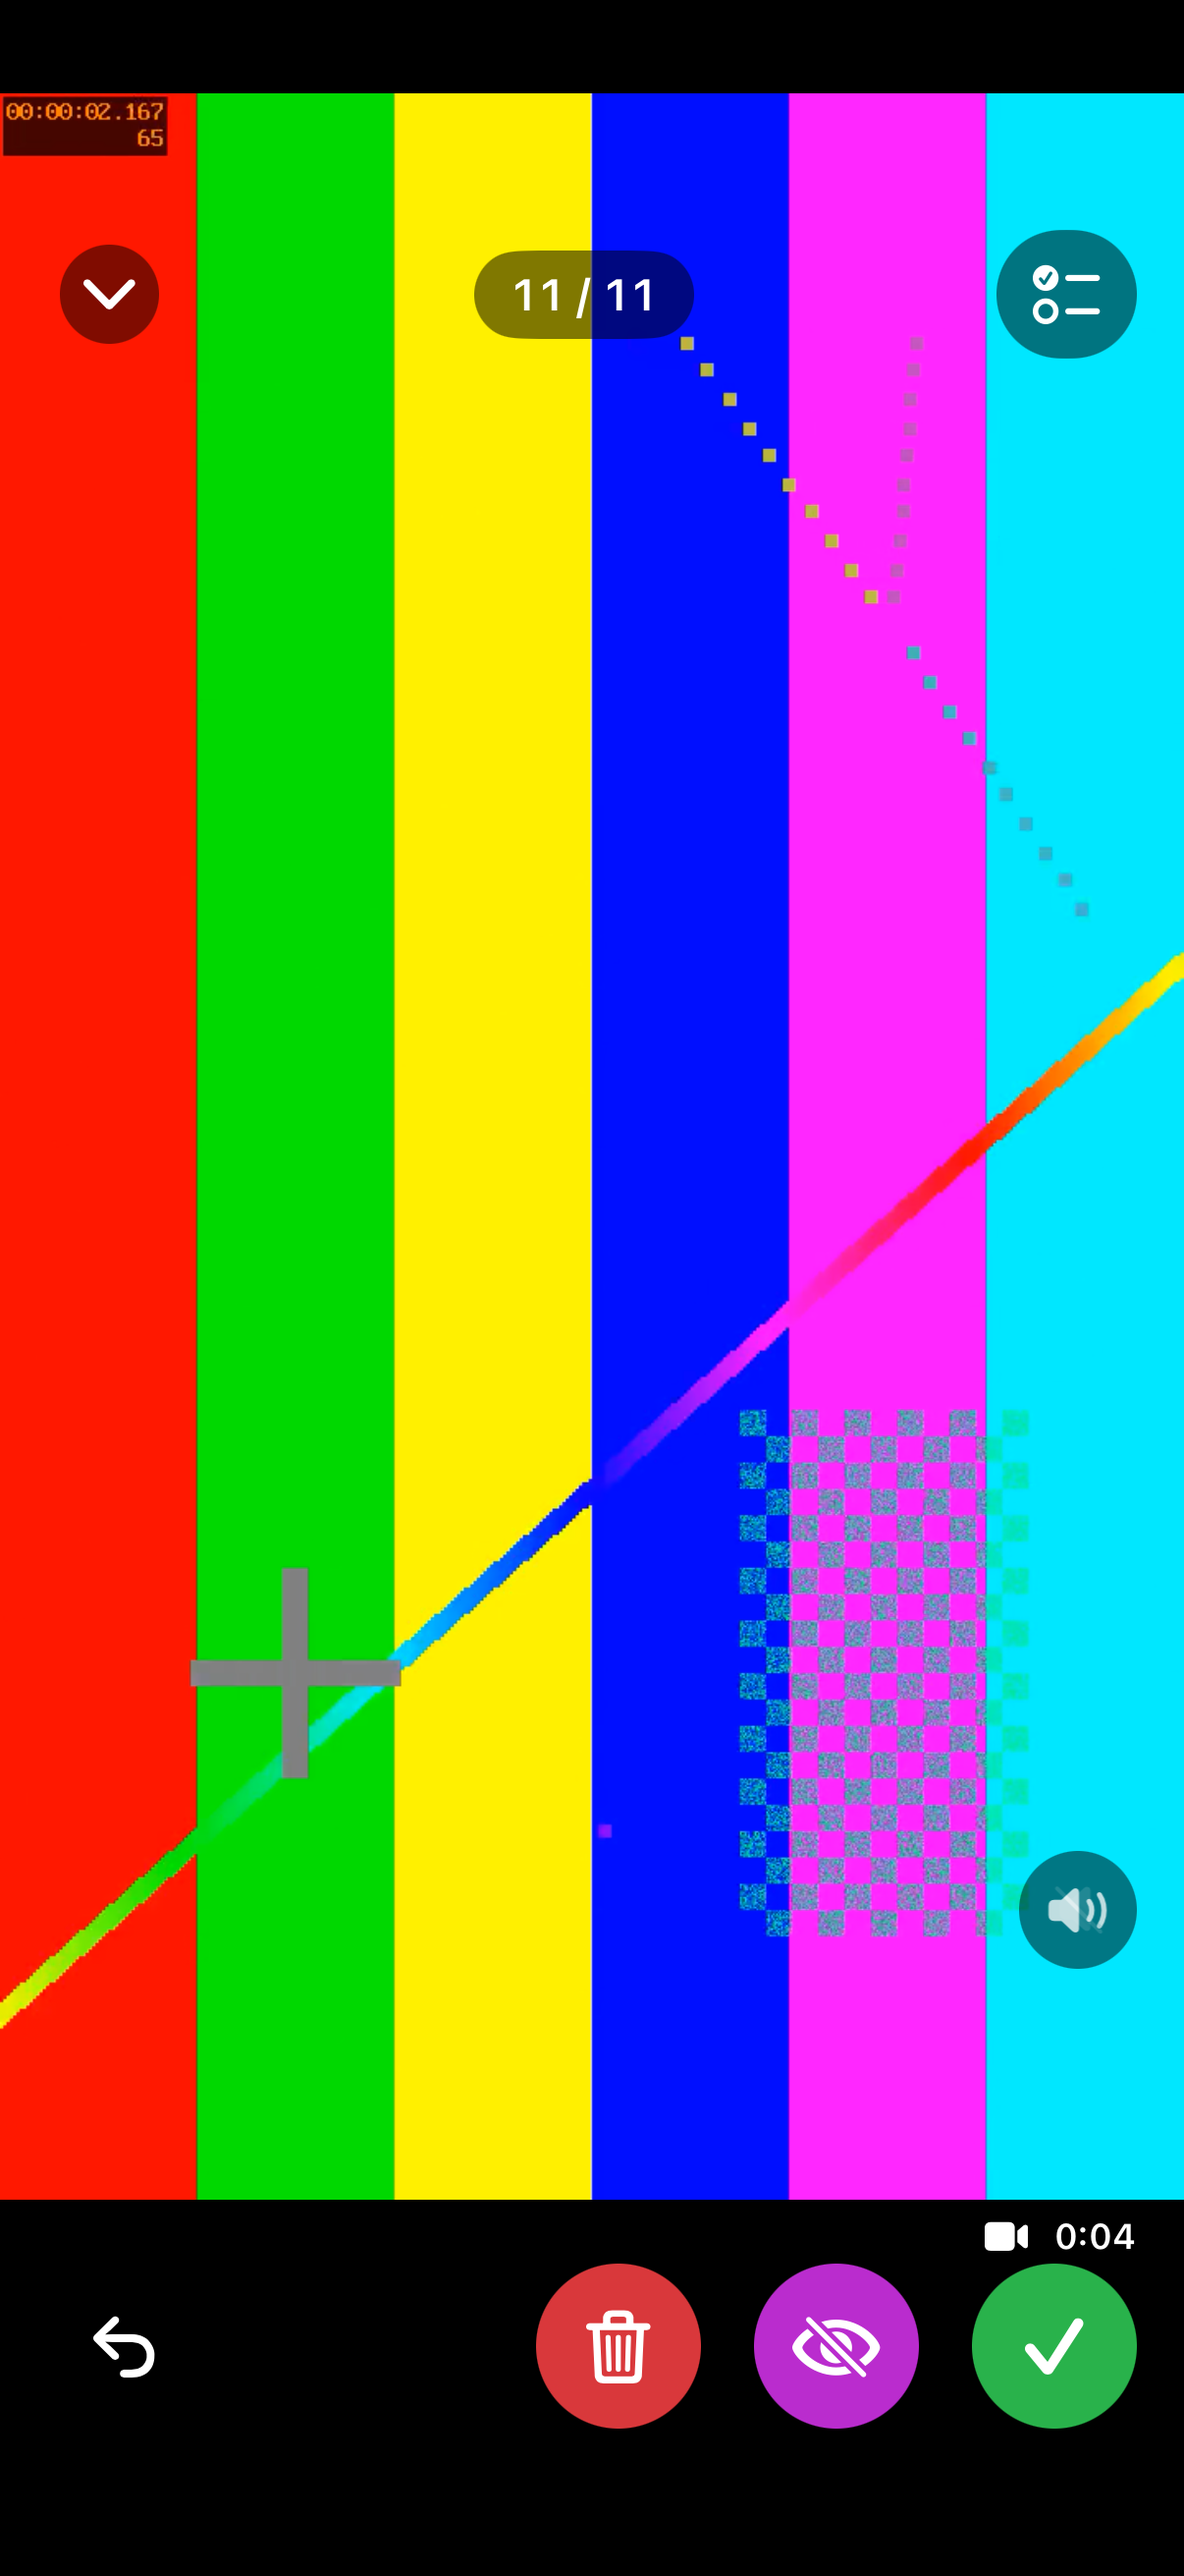
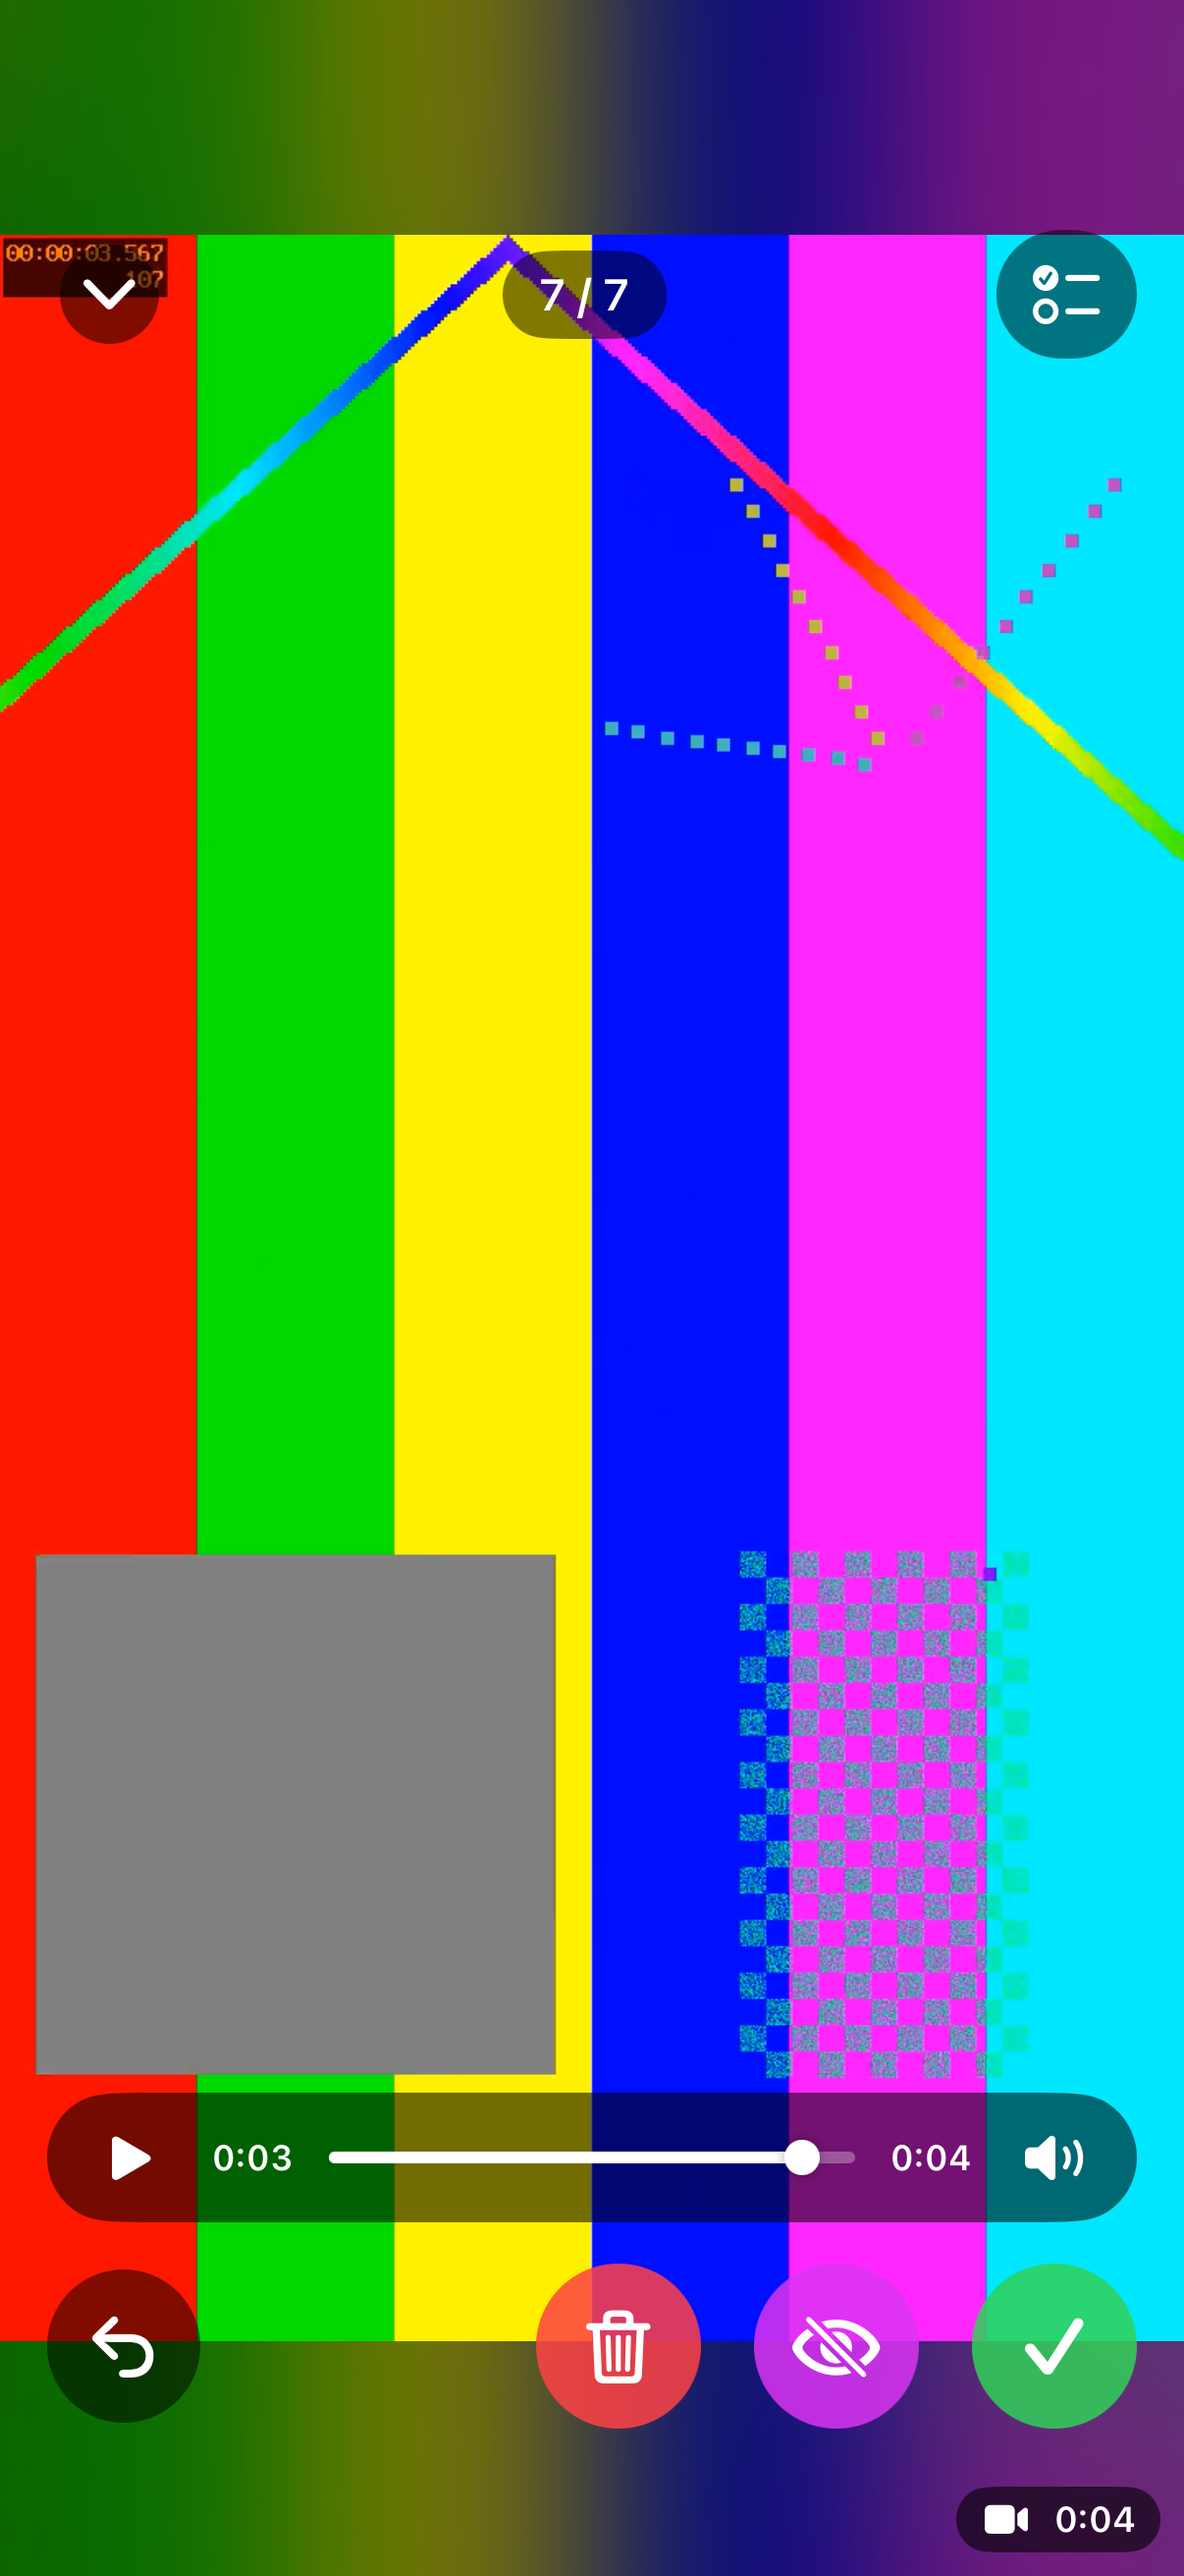
Mac: installer-style DMG, "Check for Updates…" via GitHub Releases, README grid
- release-mac.sh lays out the disk image with Finder (app → arrow → Applications,
  generated HiDPI background from scripts/dmg-background.swift) before compressing.
- UpdateChecker (Mac-only): compares the latest GitHub release tag with the bundle
  version, offers to download the .dmg to ~/Downloads and open it; runs silently
  once a day and from the app menu. AppVersion is shared and unit-tested.
- Downloads read-write entitlement for the updater; release notes/README explain the
  macOS 26 Gatekeeper wording for un-notarized builds.
- README screenshots refreshed and shown three per row.

diff --git a/PhotoSwipeMac/UpdateChecker.swift b/PhotoSwipeMac/UpdateChecker.swift
@@ -1,0 +1,144 @@
+import AppKit
+import Foundation
+
+/// "Check for Updates…" for the Mac app. Asks GitHub for the latest release of
+/// ByldrDev/photo-swipe, compares its tag with this bundle's version, and offers
+/// to download the .dmg into ~/Downloads and open it (which mounts the disk
+/// image with its drag-to-Applications window). Also runs silently once a day at
+/// launch and only speaks up when something newer exists.
+@MainActor
+final class UpdateChecker {
+    static let shared = UpdateChecker()
+
+    static let latestReleaseURL = URL(string: "https://api.github.com/repos/ByldrDev/photo-swipe/releases/latest")!
+    private static let lastCheckKey = "lastUpdateCheck"
+    private static let checkInterval: TimeInterval = 24 * 60 * 60
+
+    struct Release {
+        let version: AppVersion
+        let pageURL: URL
+        let dmgURL: URL?
+    }
+
+    enum UpdateError: LocalizedError {
+        case badResponse(Int)
+        case unparsable
+
+        var errorDescription: String? {
+            switch self {
+            case .badResponse(let code): return "GitHub answered with status \(code)."
+            case .unparsable: return "The release information couldn't be read."
+            }
+        }
+    }
+
+    private var isChecking = false
+
+    var currentVersion: AppVersion {
+        AppVersion(Bundle.main.object(forInfoDictionaryKey: "CFBundleShortVersionString") as? String ?? "") ?? AppVersion(0, 0, 0)
+    }
+
+    /// Menu item: always reports a result (up to date, update available, or error).
+    func checkInteractively() {
+        Task { await check(interactive: true) }
+    }
+
+    /// Launch hook: at most once per day, and silent unless an update exists.
+    func checkAutomaticallyIfDue() {
+        let last = UserDefaults.standard.object(forKey: Self.lastCheckKey) as? Date ?? .distantPast
+        guard Date().timeIntervalSince(last) > Self.checkInterval else { return }
+        Task { await check(interactive: false) }
+    }
+
+    private func check(interactive: Bool) async {
+        guard !isChecking else { return }
+        isChecking = true
+        defer { isChecking = false }
+        do {
+            let release = try await fetchLatest()
+            UserDefaults.standard.set(Date(), forKey: Self.lastCheckKey)
+            if release.version > currentVersion {
+                offer(release)
+            } else if interactive {
+                alert("You're up to date", "PhotoSwipe \(currentVersion) is the latest version.")
+            }
+        } catch {
+            if interactive { alert("Couldn't check for updates", error.localizedDescription) }
+        }
+    }
+
+    // MARK: - GitHub
+
+    private struct GitHubRelease: Decodable {
+        struct Asset: Decodable {
+            let name: String
+            let browser_download_url: URL
+        }
+        let tag_name: String
+        let html_url: URL
+        let assets: [Asset]
+    }
+
+    private func fetchLatest() async throws -> Release {
+        var request = URLRequest(url: Self.latestReleaseURL)
+        request.setValue("application/vnd.github+json", forHTTPHeaderField: "Accept")
+        request.setValue("PhotoSwipe-mac/\(currentVersion)", forHTTPHeaderField: "User-Agent")
+        let (data, response) = try await URLSession.shared.data(for: request)
+        let status = (response as? HTTPURLResponse)?.statusCode ?? 0
+        guard status == 200 else { throw UpdateError.badResponse(status) }
+        let json = try JSONDecoder().decode(GitHubRelease.self, from: data)
+        guard let version = AppVersion(json.tag_name) else { throw UpdateError.unparsable }
+        let dmg = json.assets.first { $0.name.hasSuffix(".dmg") }?.browser_download_url
+        return Release(version: version, pageURL: json.html_url, dmgURL: dmg)
+    }
+
+    // MARK: - UI
+
+    private func offer(_ release: Release) {
+        let alert = NSAlert()
+        alert.messageText = "PhotoSwipe \(release.version) is available"
+        alert.informativeText = "You have \(currentVersion). The update downloads as a disk image; drag the new PhotoSwipe to Applications to replace this one, then relaunch."
+        alert.addButton(withTitle: release.dmgURL == nil ? "Open Release Page" : "Download")
+        alert.addButton(withTitle: "Release Notes")
+        alert.addButton(withTitle: "Later")
+        NSApp.activate(ignoringOtherApps: true)
+        switch alert.runModal() {
+        case .alertFirstButtonReturn:
+            if let dmg = release.dmgURL {
+                Task { await download(dmg) }
+            } else {
+                NSWorkspace.shared.open(release.pageURL)
+            }
+        case .alertSecondButtonReturn:
+            NSWorkspace.shared.open(release.pageURL)
+        default:
+            break
+        }
+    }
+
+    /// Saves the .dmg to ~/Downloads (sandbox: files.downloads.read-write) and
+    /// opens it, which mounts the image and shows its installer window.
+    private func download(_ url: URL) async {
+        do {
+            let (temporary, response) = try await URLSession.shared.download(from: url)
+            let status = (response as? HTTPURLResponse)?.statusCode ?? 0
+            guard status == 200 else { throw UpdateError.badResponse(status) }
+            let downloads = try FileManager.default.url(for: .downloadsDirectory, in: .userDomainMask, appropriateFor: nil, create: true)
+            let destination = downloads.appendingPathComponent(url.lastPathComponent)
+            try? FileManager.default.removeItem(at: destination)
+            try FileManager.default.moveItem(at: temporary, to: destination)
+            NSWorkspace.shared.open(destination)
+        } catch {
+            alert("Download failed", "\(error.localizedDescription)\n\nYou can download it from the releases page instead.")
+        }
+    }
+
+    private func alert(_ title: String, _ message: String) {
+        let alert = NSAlert()
+        alert.messageText = title
+        alert.informativeText = message
+        alert.addButton(withTitle: "OK")
+        NSApp.activate(ignoringOtherApps: true)
+        alert.runModal()
+    }
+}

diff --git a/scripts/dmg-background.swift b/scripts/dmg-background.swift
@@ -1,0 +1,58 @@
+#!/usr/bin/swift
+// Draws the disk-image window background (dark, an arrow from the app to the
+// Applications shortcut, a caption) at 1x and 2x. Used by release-mac.sh, which
+// combines the two PNGs into one HiDPI TIFF with tiffutil.
+//
+//   swift scripts/dmg-background.swift <out-prefix>   -> <out-prefix>@1x.png, <out-prefix>@2x.png
+//
+// Geometry matches the Finder layout in release-mac.sh: a 660x420 window with
+// 128pt icons centred at x=165 (app) and x=495 (Applications), y=190 from the top.
+import AppKit
+
+let prefix = CommandLine.arguments.dropFirst().first ?? "dmg-background"
+let width: CGFloat = 660, height: CGFloat = 420
+let iconY: CGFloat = height - 190   // AppKit draws from the bottom
+
+func render(scale: CGFloat) -> Data {
+    let rep = NSBitmapImageRep(bitmapDataPlanes: nil, pixelsWide: Int(width * scale), pixelsHigh: Int(height * scale),
+                               bitsPerSample: 8, samplesPerPixel: 4, hasAlpha: true, isPlanar: false,
+                               colorSpaceName: .deviceRGB, bytesPerRow: 0, bitsPerPixel: 0)!
+    rep.size = NSSize(width: width, height: height)
+    NSGraphicsContext.saveGraphicsState()
+    NSGraphicsContext.current = NSGraphicsContext(bitmapImageRep: rep)
+    defer { NSGraphicsContext.restoreGraphicsState() }
+
+    NSColor(calibratedWhite: 0.11, alpha: 1).setFill()
+    NSRect(x: 0, y: 0, width: width, height: height).fill()
+
+    // Arrow between the two icons.
+    let arrow = NSBezierPath()
+    arrow.lineWidth = 6
+    arrow.lineCapStyle = .round
+    arrow.lineJoinStyle = .round
+    arrow.move(to: NSPoint(x: 262, y: iconY))
+    arrow.line(to: NSPoint(x: 398, y: iconY))
+    arrow.move(to: NSPoint(x: 372, y: iconY + 24))
+    arrow.line(to: NSPoint(x: 398, y: iconY))
+    arrow.line(to: NSPoint(x: 372, y: iconY - 24))
+    NSColor(calibratedWhite: 0.55, alpha: 1).setStroke()
+    arrow.stroke()
+
+    let caption = "Drag PhotoSwipe to Applications" as NSString
+    let attrs: [NSAttributedString.Key: Any] = [
+        .font: NSFont.systemFont(ofSize: 15, weight: .medium),
+        .foregroundColor: NSColor(calibratedWhite: 0.7, alpha: 1),
+    ]
+    let size = caption.size(withAttributes: attrs)
+    caption.draw(at: NSPoint(x: (width - size.width) / 2, y: 62), withAttributes: attrs)
+
+    return rep.representation(using: .png, properties: [:])!
+}
+
+do {
+    try render(scale: 1).write(to: URL(fileURLWithPath: prefix + "@1x.png"))
+    try render(scale: 2).write(to: URL(fileURLWithPath: prefix + "@2x.png"))
+} catch {
+    FileHandle.standardError.write("dmg-background: \(error)\n".data(using: .utf8)!)
+    exit(1)
+}

diff --git a/PhotoSwipe/Models/AppVersion.swift b/PhotoSwipe/Models/AppVersion.swift
@@ -1,0 +1,35 @@
+import Foundation
+
+/// A marketing version such as "1.0.2" (or a release tag such as "v1.0.2").
+/// Missing components read as 0, so "1.0" == "1.0.0".
+struct AppVersion: Comparable, CustomStringConvertible, Equatable {
+    let major: Int
+    let minor: Int
+    let patch: Int
+
+    init(_ major: Int, _ minor: Int, _ patch: Int) {
+        self.major = major
+        self.minor = minor
+        self.patch = patch
+    }
+
+    init?(_ string: String) {
+        var s = string.trimmingCharacters(in: .whitespacesAndNewlines)
+        if s.hasPrefix("v") || s.hasPrefix("V") { s.removeFirst() }
+        let parts = s.split(separator: ".", omittingEmptySubsequences: false)
+        guard !parts.isEmpty, parts.count <= 3 else { return nil }
+        var numbers: [Int] = []
+        for part in parts {
+            guard let n = Int(part), n >= 0 else { return nil }
+            numbers.append(n)
+        }
+        while numbers.count < 3 { numbers.append(0) }
+        self.init(numbers[0], numbers[1], numbers[2])
+    }
+
+    var description: String { "\(major).\(minor).\(patch)" }
+
+    static func < (lhs: AppVersion, rhs: AppVersion) -> Bool {
+        (lhs.major, lhs.minor, lhs.patch) < (rhs.major, rhs.minor, rhs.patch)
+    }
+}

diff --git a/PhotoSwipeTests/AppVersionTests.swift b/PhotoSwipeTests/AppVersionTests.swift
@@ -1,0 +1,27 @@
+import XCTest
+@testable import PhotoSwipe
+
+final class AppVersionTests: XCTestCase {
+    func testParsesTagsAndShortVersions() {
+        XCTAssertEqual(AppVersion("v1.0.2"), AppVersion(1, 0, 2))
+        XCTAssertEqual(AppVersion("1.0"), AppVersion(1, 0, 0))
+        XCTAssertEqual(AppVersion("2"), AppVersion(2, 0, 0))
+        XCTAssertEqual(AppVersion(" 1.2.3\n"), AppVersion(1, 2, 3))
+    }
+
+    func testRejectsGarbage() {
+        XCTAssertNil(AppVersion("1.0.2-beta"))
+        XCTAssertNil(AppVersion("1.0.2.4"))
+        XCTAssertNil(AppVersion(""))
+        XCTAssertNil(AppVersion("a.b"))
+    }
+
+    func testOrdering() {
+        XCTAssertTrue(AppVersion("1.0.2")! > AppVersion("1.0.1")!)
+        XCTAssertTrue(AppVersion("1.0.10")! > AppVersion("1.0.9")!)
+        XCTAssertTrue(AppVersion("1.1")! > AppVersion("1.0.99")!)
+        XCTAssertTrue(AppVersion("2.0")! > AppVersion("1.9.9")!)
+        XCTAssertEqual(AppVersion("1.0")!, AppVersion("1.0.0")!)
+        XCTAssertEqual("\(AppVersion("v1.0.2")!)", "1.0.2")
+    }
+}

diff --git a/PhotoSwipe/App/PhotoSwipeApp.swift b/PhotoSwipe/App/PhotoSwipeApp.swift
@@ -5,7 +5,7 @@ struct PhotoSwipeApp: App {
     @State private var model = AppModel()
 
     var body: some Scene {
-        WindowGroup {
+        let window = WindowGroup {
             RootView()
                 .environment(model)
                 .preferredColorScheme(.dark)
@@ -15,6 +15,15 @@ struct PhotoSwipeApp: App {
                 }
         }
         .defaultSize(width: 960, height: 760)
+        #if os(macOS)
+        return window.commands {
+            CommandGroup(after: .appInfo) {
+                Button("Check for Updates…") { UpdateChecker.shared.checkInteractively() }
+            }
+        }
+        #else
+        return window
+        #endif
     }
 }
 
@@ -34,6 +43,7 @@ struct RootView: View {
         }
         .animation(.easeInOut(duration: 0.2), value: model.isSwiping)
         .frame(minWidth: 640, minHeight: 520)
+        .task { UpdateChecker.shared.checkAutomaticallyIfDue() }
         #else
         HomeView()
         #endif

diff --git a/README.md b/README.md
@@ -35,7 +35,16 @@ Start from your newest photo by default, flip to oldest-first, or use **Choose w
 start…** to jump to any month or date. Sessions are saved after every swipe, so quitting
 the app never loses your delete list; Home offers **Resume** on the next launch.
 
-![Home](screenshots/01-home.png) ![Swipe](screenshots/02-swipe.png) ![Review](screenshots/04-review.png)
+<p>
+  <img src="screenshots/01-home.png" width="30%" alt="Home">
+  <img src="screenshots/02-swipe.png" width="30%" alt="Swipe deck">
+  <img src="screenshots/07-zoom.png" width="30%" alt="Zoomed card with edge strips">
+</p>
+<p>
+  <img src="screenshots/06-video.png" width="30%" alt="Video card with scrubber">
+  <img src="screenshots/04-review.png" width="30%" alt="Review">
+  <img src="screenshots/08-mac.png" width="30%" alt="macOS">
+</p>
 
 ## macOS
 
@@ -154,8 +163,10 @@ ASC_KEY_ID=2M8HBZGHA8 ASC_ISSUER_ID=7a62ff2d-f404-42b0-b11b-2a475a0c4ad3 scripts
 **Signing.** Distribution outside the App Store needs a **Developer ID Application**
 certificate; if one is in the login keychain the script signs with it, notarizes via
 `notarytool` with the App Store Connect API key, and staples the ticket, so downloads open
-with no warning. Without one the build is ad-hoc signed and the first launch needs
-right-click → Open (or Privacy & Security → Open Anyway); the release notes explain this.
+with no warning. Without one the build is ad-hoc signed and Gatekeeper blocks the first launch; on macOS 15/26
+the dialog misleadingly says the app "is not supported on this Mac" (it is a universal binary).
+Privacy & Security → **Open Anyway**, or `xattr -dr com.apple.quarantine`, gets past it once; the
+release notes explain this. Notarization removes the step entirely.
 
 Only the team's **Account Holder** can create a Developer ID certificate, and the App Store
 Connect API refuses it (403) even with an App Manager key, so it is a one-time manual step:
